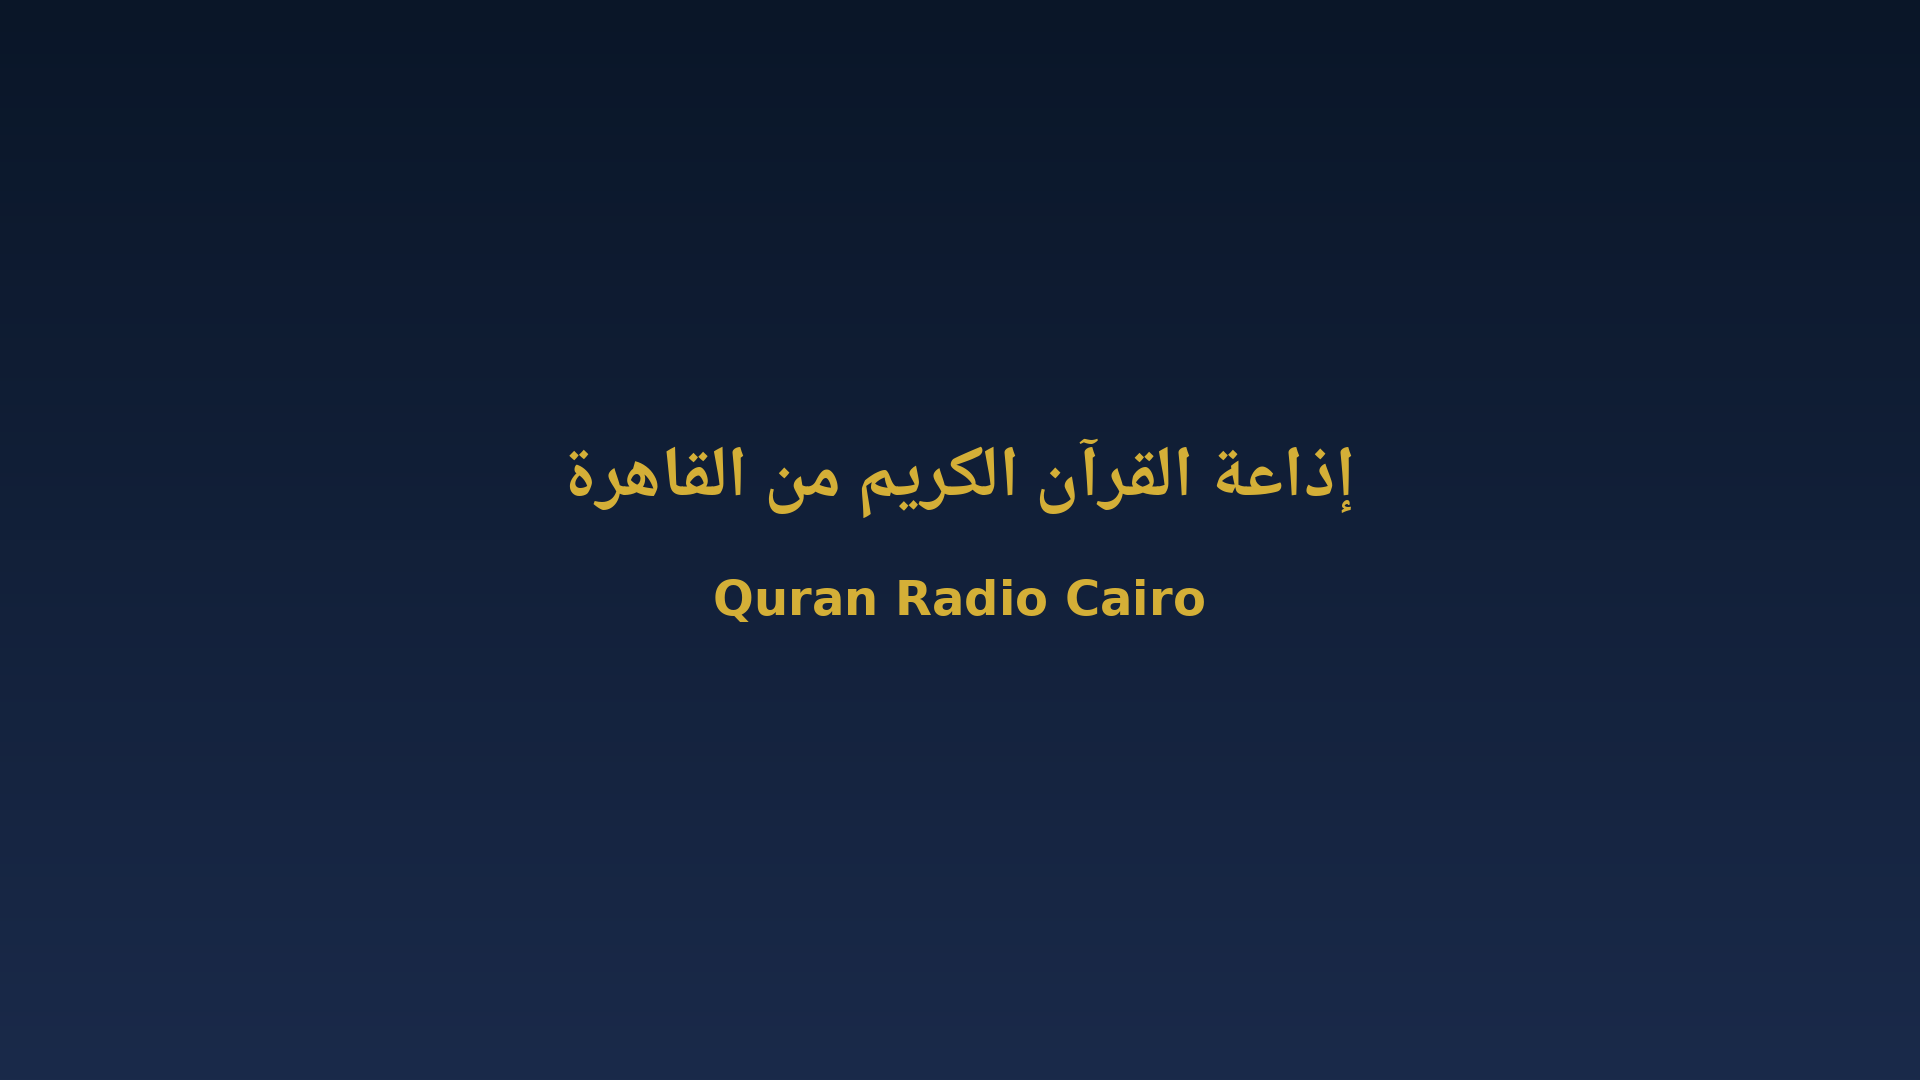
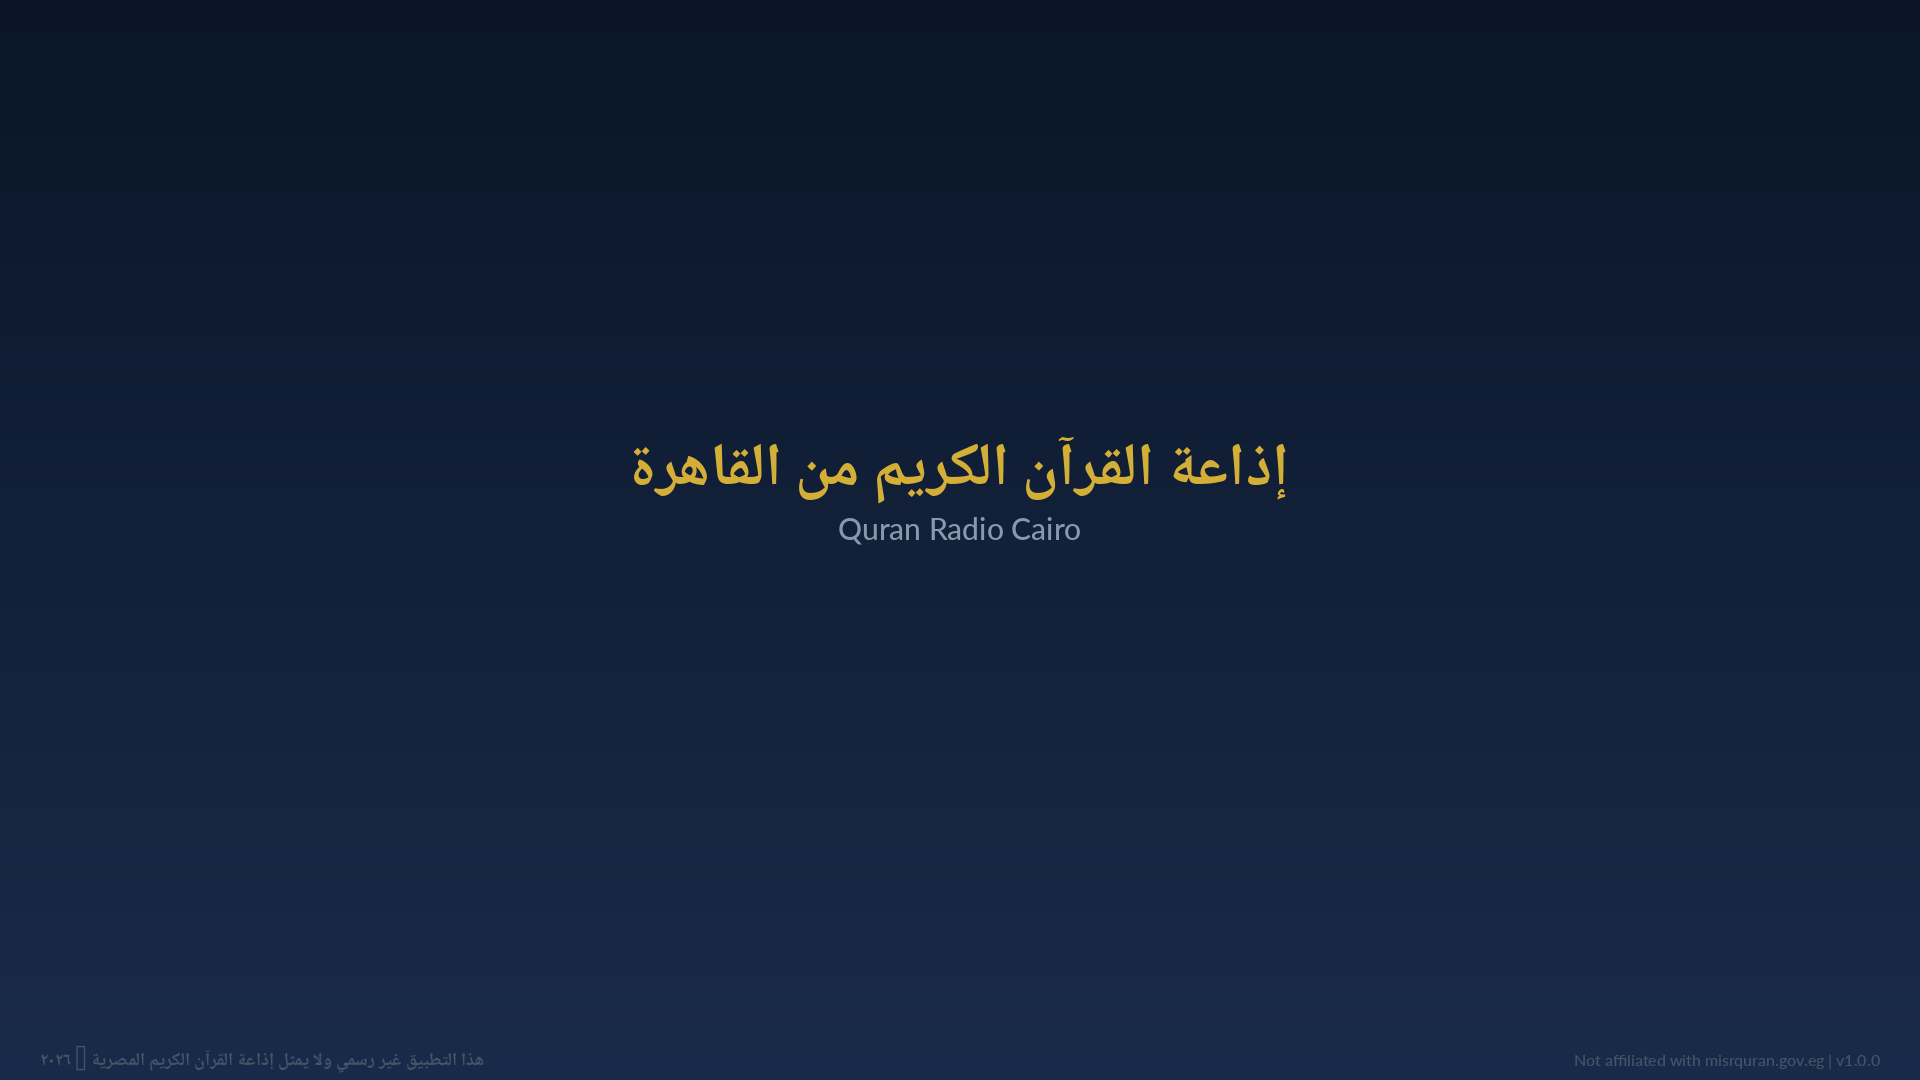
Add disclaimer, version number, and update store assets
- Add copyright disclaimer and "Not affiliated" notice
- Add version number v1.0.0 to footer
- Update banner, splash, and screenshots with disclaimer

diff --git a/index.html b/index.html
@@ -278,9 +278,9 @@
             <div class="prayer-grid" id="prayerGrid"></div>
         </div>
     </div>
-    <div style="position:fixed;bottom:8px;left:20px;right:20px;font-size:12px;color:#445566;direction:rtl;display:flex;justify-content:space-between">
+    <div style="position:fixed;bottom:8px;left:20px;right:20px;font-size:18px;color:#445566;direction:rtl;display:flex;justify-content:space-between">
         <span>هذا التطبيق غير رسمي ولا يمثل إذاعة القرآن الكريم المصرية. جميع الحقوق محفوظة لإذاعة القرآن الكريم المصرية © ٢٠٢٦</span>
-        <span style="direction:ltr">Not affiliated with misrquran.gov.eg</span>
+        <span style="direction:ltr">Not affiliated with misrquran.gov.eg | v1.0.0</span>
     </div>
 
     <script>
